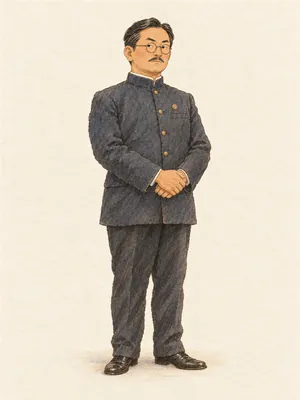
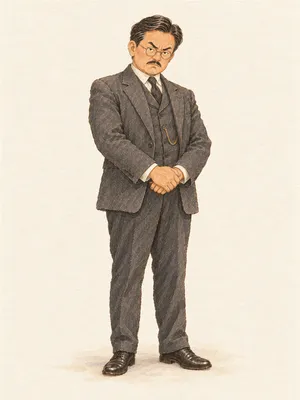
年關 2.8：加入小使、市集老人、母親、醫生、保正、鄰家、漢文先生立繪，巡警與郡守換成更兇的新版
Claude-Session: https://claude.ai/code/session_015GJiE399g4ayTZbP44fhLs

Changed region(s): [[0.27, 0.03, 0.72, 0.96]]

diff --git a/scales/index.html b/scales/index.html
@@ -410,7 +410,7 @@ const dayName = d => d > 30 ? "正月初一・開正" : `十二月${CN[d]}${FEST
 // ===== 數值 =====
 // s 錢、g 糧（還能吃幾天）、b 身體、p 骨氣、w 妻子的心、o 官符（0～10）
 // 立繪：art/<鍵>.webp 是動作版，事件卡右上角像一頁繪本那樣顯示；art/face/ 是平靜版（之後用）。沒有圖的人只顯示名字
-const ART = new Set(["can", "wife", "cop", "judge"]);
+const ART = new Set(["can", "wife", "cop", "judge", "boy", "old", "mom", "doc", "bz", "nb", "sensei"]);
 const LABEL = {s: "錢", g: "糧", b: "身體", p: "骨氣", w: "妻子的心", o: "官符"};
 const UNIT = {s: " 錢", g: " 天", b: "", p: "", w: "", o: ""};
 let G;
